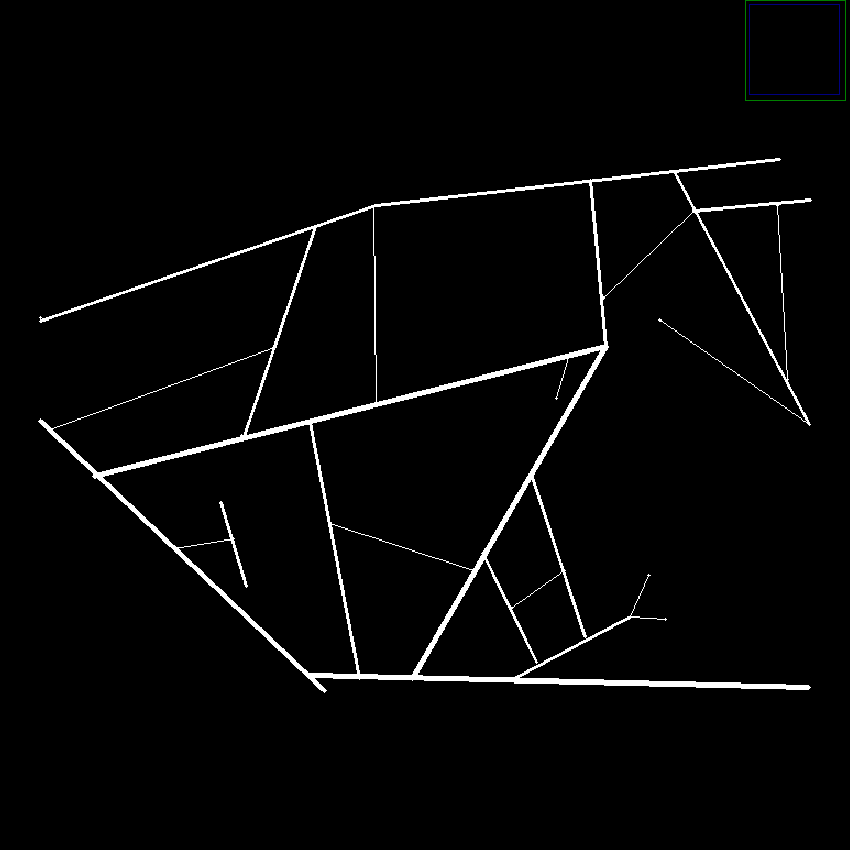
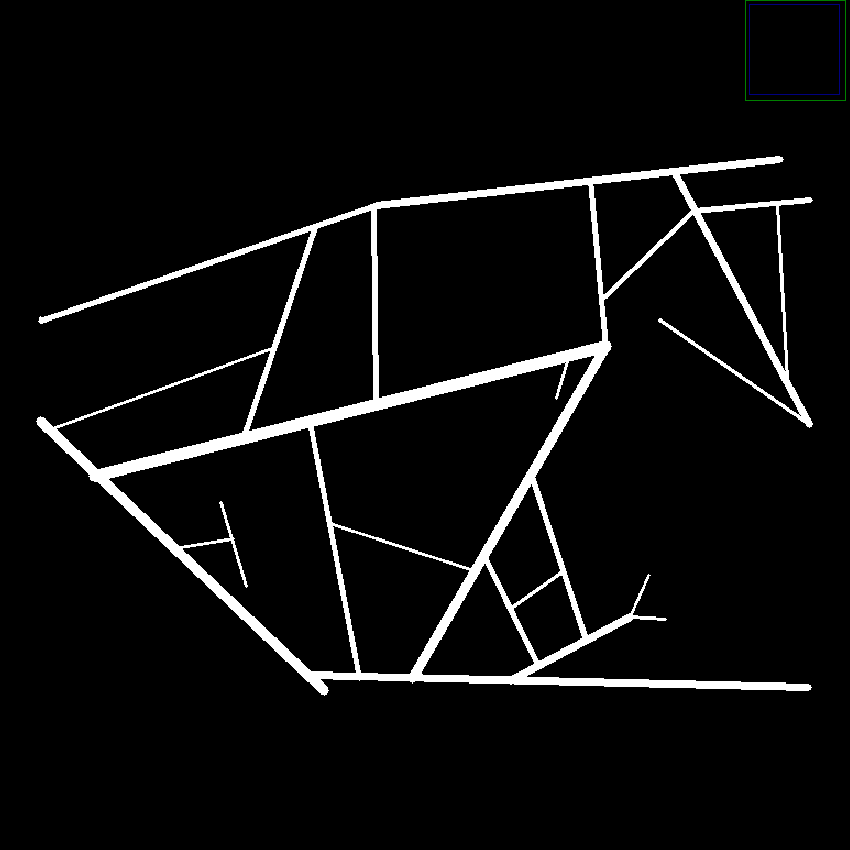
Fixed out-degree calculations, added measure values such as l_i, p_j, l_ik, p_jl, dashed l_i, dashed p_j

diff --git a/base_components.py b/base_components.py
@@ -16,7 +16,7 @@ class Node:
     def __init__(self, pos_x, pos_y, connected_lines):
         self.x = pos_x
         self.y = pos_y
-        self.size = len(connected_lines)*6
+        self.size = 1
         self.connected_lines = connected_lines
 
 class Line:
@@ -25,7 +25,7 @@ class Line:
         self.start_y = start_y
         self.end_x = end_x
         self.end_y = end_y
-        self.size = len(connected_nodes)
+        self.size = 1
         self.connected_nodes = connected_nodes
 
 class Network:
@@ -34,6 +34,7 @@ class Network:
         self.lines = []
         self.print_offset = 150
         self.desired_size = 850
+
 
     def create_node(self, pos, connected_lines):
         self.nodes.append(Node(pos[0], pos[1], connected_lines))
@@ -90,12 +91,70 @@ class Network:
     def generate_aij_matrix(self):
         aij = np.zeros((len(self.lines)+1, len(self.nodes)+1))
 
-        for i, node in enumerate(self.nodes):
-            for j in node.connected_lines:
-                aij[j,i] = 1
+        for j, node in enumerate(self.nodes):
+            for i in node.connected_lines:
+                aij[i,j] = 1
         
         aij[-1,:] = aij.sum(axis=0)
         aij[:,-1] = aij.sum(axis=1)
+
+        self.l_i = np.zeros(len(self.lines))
+        self.p_j = np.zeros(len(self.nodes))
+        self.l_ik = np.zeros((len(self.lines), len(self.lines)))
+        self.p_jl = np.zeros((len(self.nodes), len(self.nodes)))
+        self.dashed_l_i = np.zeros(len(self.lines))
+        self.dashed_p_j = np.zeros(len(self.nodes))
+
+        ## calculating primal stats
+        for i in range(len(self.lines)):
+
+            ## l_i calculation
+            li = 0
+            for j in range(len(self.nodes)):
+                li += aij[i,j]
+            self.l_i[i] = li
+
+            ## l_ik calculation
+            for k in range(len(self.lines)): ## second line
+                lik = 0
+                for j in range(len(self.nodes)):
+                    lik += aij[i,j] * aij[k,j]
+                self.l_ik[i,k] = lik
+
+            ## dashed_l_i calculation
+            dashed_li = 0
+            for k in range(len(self.lines)): ## second line
+                dashed_li += self.l_ik[i,k]
+            self.dashed_l_i[i] = dashed_li
+
+        ## calculating dual stats
+        for j in range(len(self.nodes)):
+
+            ## p_j calculation
+            pj = 0
+            for i in range(len(self.lines)):
+                pj += aij[i,j]
+            self.p_j[j] = pj
+
+            ## p_jl calculation
+            for l in range(len(self.nodes)): ## second node
+                pjl = 0
+                for i in range(len(self.lines)):
+                    pjl += aij[i,j] * aij[i,l]
+                self.p_jl[j,l] = pjl
+
+            ## dashed_p_j calculation
+            dashed_pj = 0
+            for l in range(len(self.nodes)): ## second node
+                dashed_pj += self.p_jl[j,l]
+            self.dashed_p_j[j] = dashed_pj
+
+        ## setting out_degree sizes
+        for j in range(len(self.nodes)):
+            self.nodes[j].size = self.dashed_p_j[j] * 1.75
+        for i in range(len(self.lines)):
+            self.lines[i].size = self.dashed_l_i[i]         
+
 
         return aij
 

diff --git a/main.py b/main.py
@@ -11,7 +11,6 @@ from primal_network import PrimalNetwork
 from dual_network import DualNetwork
 from heatmap import plot_heatmap
 
-
 example_net = Network()
 
 example_net.create_node(pos=(0, 236), connected_lines=[0]) # Node 0
@@ -87,36 +86,39 @@ example_net.create_line(start=(765, 624), end=(789, 570)) # Line 24
 example_net.create_line(start=(350, 700), end=(996, 715)) # Line 25
 
 
+## MUST RUN THESE
+aij = example_net.generate_aij_matrix()
+print("Generated a_ij matrix;\n\n", aij)
+example_net.autoscale_network()
+
+
+## SHOWCASE
 '''
 Show: 'nodes', 'lines', 'all'
 Weighted: True, False
 '''
-example_net.autoscale_network()
-
-aij = example_net.generate_aij_matrix()
-print("Generated a_ij matrix;\n\n", aij)
-
 example_net.show_network(show="nodes", weighted=True)
 plot_heatmap(network=example_net, mode="nodes", sharpness_factor=10)
 
 example_net.show_network(show="lines", weighted=True)
 plot_heatmap(network=example_net, mode="lines", sharpness_factor=10)
 
+## PRIMAL NETWORKS W/ DIFFERENT STEPS
+primal_net = PrimalNetwork(network=example_net, step_count = 1)
+primal_net.show_network() 
 
-# primal_net = PrimalNetwork(network=example_net, step_count = 1)
-# primal_net.show_network() 
+primal_net = PrimalNetwork(network=example_net, step_count = 2)
+primal_net.show_network() 
 
-# primal_net = PrimalNetwork(network=example_net, step_count = 2)
-# primal_net.show_network() 
+primal_net = PrimalNetwork(network=example_net, step_count = 3)
+primal_net.show_network() 
 
-# primal_net = PrimalNetwork(network=example_net, step_count = 3)
-# primal_net.show_network() 
+## DUAL NETWORKS W/ DIFFERENT STEPS
+dual_net = DualNetwork(network=example_net, step_count = 1)
+dual_net.show_network() 
 
-# dual_net = DualNetwork(network=example_net, step_count = 1)
-# dual_net.show_network() 
+dual_net = DualNetwork(network=example_net, step_count = 2)
+dual_net.show_network() 
 
-# dual_net = DualNetwork(network=example_net, step_count = 2)
-# dual_net.show_network() 
-
-# dual_net = DualNetwork(network=example_net, step_count = 3)
-# dual_net.show_network() 
+dual_net = DualNetwork(network=example_net, step_count = 3)
+dual_net.show_network() 
